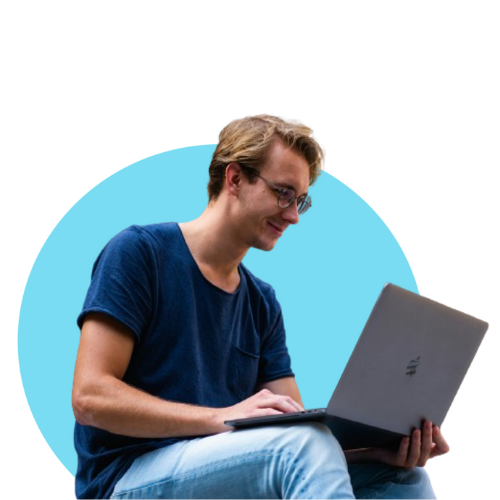
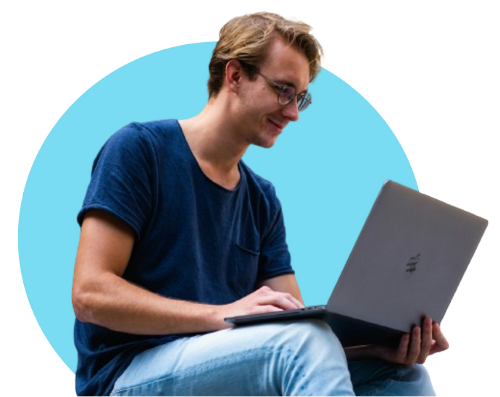
commit link page

diff --git a/src/app/home/home.page.html b/src/app/home/home.page.html
@@ -3,16 +3,16 @@
     <ion-row class="header">
       <ion-col size="12">
         <img src="../../assets/img/logo/logo azul com nome sem fundo.png" alt="LOGO" class="logo">
-        <ion-button fill="clear">Início</ion-button>
-        <ion-button fill="clear">Sobre</ion-button>
-        <ion-button fill="clear">Serviços</ion-button>
-        <ion-button fill="clear">Como funciona</ion-button>
+        <ion-button fill="clear" (click)="scrollToInicio">Início</ion-button>
+        <ion-button fill="clear" (click)="scrollToPlans()">Planos</ion-button>
+        <ion-button fill="clear" (click)="scrollToAbout()">Sobre</ion-button>
+        <ion-button fill="clear" (click)="scrollToEstudeConosco()">Estude Conosco</ion-button>
         <ion-button fill="clear" class="side-right" color="light">Buscar cursos</ion-button>
-        <ion-button fill="clear" color="light">Divulgue seu curso</ion-button>
+        <ion-button fill="clear" (click)="scrollToDivulgue" color="light">Divulgue seu curso</ion-button>
         <ion-button fill="solid" color="transparent" class="button-open">Cadastre-se</ion-button>
       </ion-col>
     </ion-row>
-    <ion-row class="content-in-topside">
+    <ion-row class="content-in-topside" id="inicio">
       <ion-col size="2.5" class="text-in-top-side">
         <h1>Descubra cursos presenciais de qualidade em nosso site e transforme
            seu futuro!</h1>
@@ -26,7 +26,7 @@
     </ion-row>
   </ion-row>
   <ion-row class="mid-side">
-      <ion-row class="content-plans" size="12">
+      <ion-row class="content-plans" size="12"  id="planos">
         <ion-col size="12">
           <ion-card class="fundo">
             <ion-card class="card">
@@ -55,7 +55,7 @@
           </ion-card>
         </ion-col>
       </ion-row>
-      <ion-row class="content-calling-people">
+      <ion-row class="content-calling-people" id="sobre">
         <ion-col size="6" class="text">
           <p class="text-calling-people">O Seek Learning é um software que facilita a busca por cursos presenciais na região e permite que empreendedores cadastrem suas ofertas. A plataforma conecta estudantes a cursos locais de forma prática e personalizada. Com três níveis de acesso, o Seek Learning oferece recursos que se adaptam às necessidades dos alunos: o acesso básico permite buscas rápidas; o acesso plus inclui filtros como localização e preço; e o premium oferece contato direto com professores e avaliações. Assim, o Seek Learning simplifica o ensino presencial e amplia oportunidades para empreendedores educacionais.</p>
         </ion-col>
@@ -66,7 +66,7 @@
           </div>
         </ion-col>
       </ion-row>
-      <ion-row class="content-calling-students">
+      <ion-row class="content-calling-students" id="estude-conosco">
         <ion-row>
           <ion-col size="12">
             <ion-card size="12" class="calling-card">
@@ -82,7 +82,7 @@
           </ion-col>
         </ion-row>
       </ion-row>
-      <ion-row class="content-calling-teachers ion-justify-content-center">
+      <ion-row class="content-calling-teachers ion-justify-content-center" id="divulgue">
         <ion-col size="10" class="texts ion-text-center">
           <h1>Vire Professor <br /> com a gente</h1>
           <p>Você, educador apaixonado, já imaginou <br /> ter uma plataforma que te conecta com <br />

diff --git a/src/app/home/home.page.ts b/src/app/home/home.page.ts
@@ -1,12 +1,48 @@
 import { Component } from '@angular/core';
 
+
 @Component({
   selector: 'app-home',
   templateUrl: 'home.page.html',
   styleUrls: ['home.page.scss'],
 })
-export class HomePage {
+export class HomePage{
 
   constructor() {}
+
+  scrollToPlans() {
+    const element = document.getElementById('planos');
+    if (element) {
+      element.scrollIntoView({ behavior: 'smooth', block: 'start' });
+    }
+  }
+
+  scrollToAbout() {
+    const element = document.getElementById('sobre');
+    if (element) {
+      element.scrollIntoView({ behavior: 'smooth', block: 'start' });
+    }
+  }
+
+  scrollToInicio() {
+    const element = document.getElementById('inicio');
+    if (element) {
+      element.scrollIntoView({ behavior: 'smooth', block: 'start' });
+    }
+  }
+
+  scrollToEstudeConosco() {
+    const element = document.getElementById('estude-conosco');
+    if (element) {
+      element.scrollIntoView({ behavior: 'smooth', block: 'start' });
+    }
+  }
+
+  scrollToDivulgue() {
+    const element = document.getElementById('divulgue');
+    if (element) {
+      element.scrollIntoView({ behavior: 'smooth', block: 'start' });
+    }
+  }
 
 }

diff --git a/src/app/home/home.page.scss b/src/app/home/home.page.scss
@@ -60,7 +60,7 @@
     }
     & .img-top-side{
       & img{ 
-        margin-top: -9%;
+        margin-top: 8%;
         width: 80%;
       }
     }
